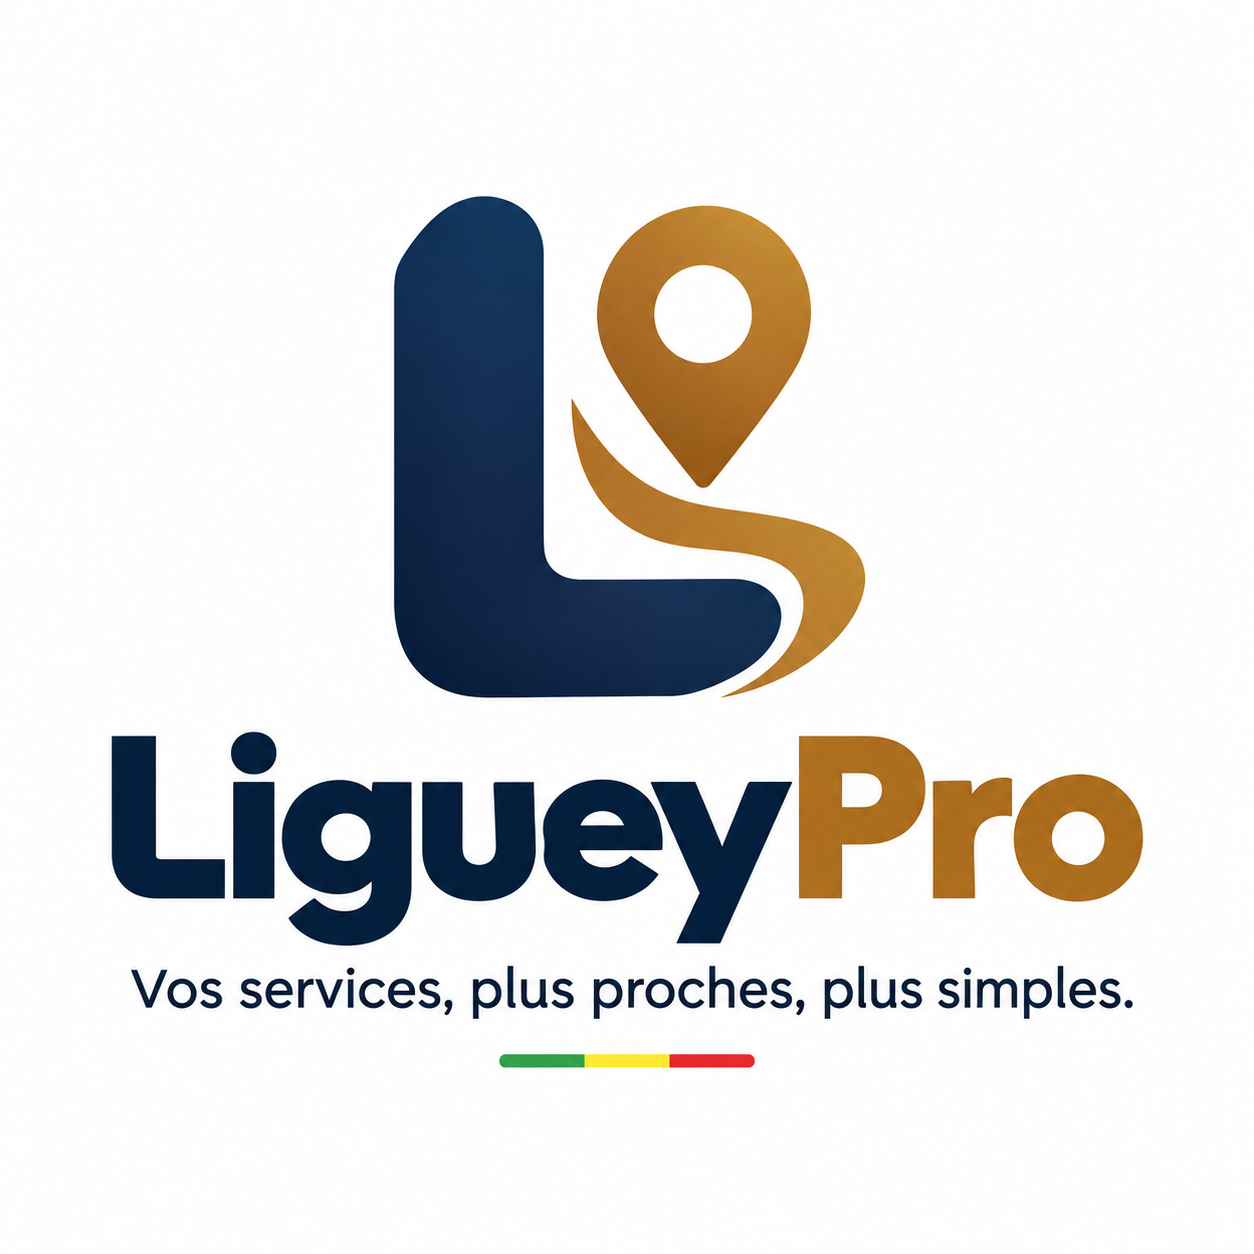
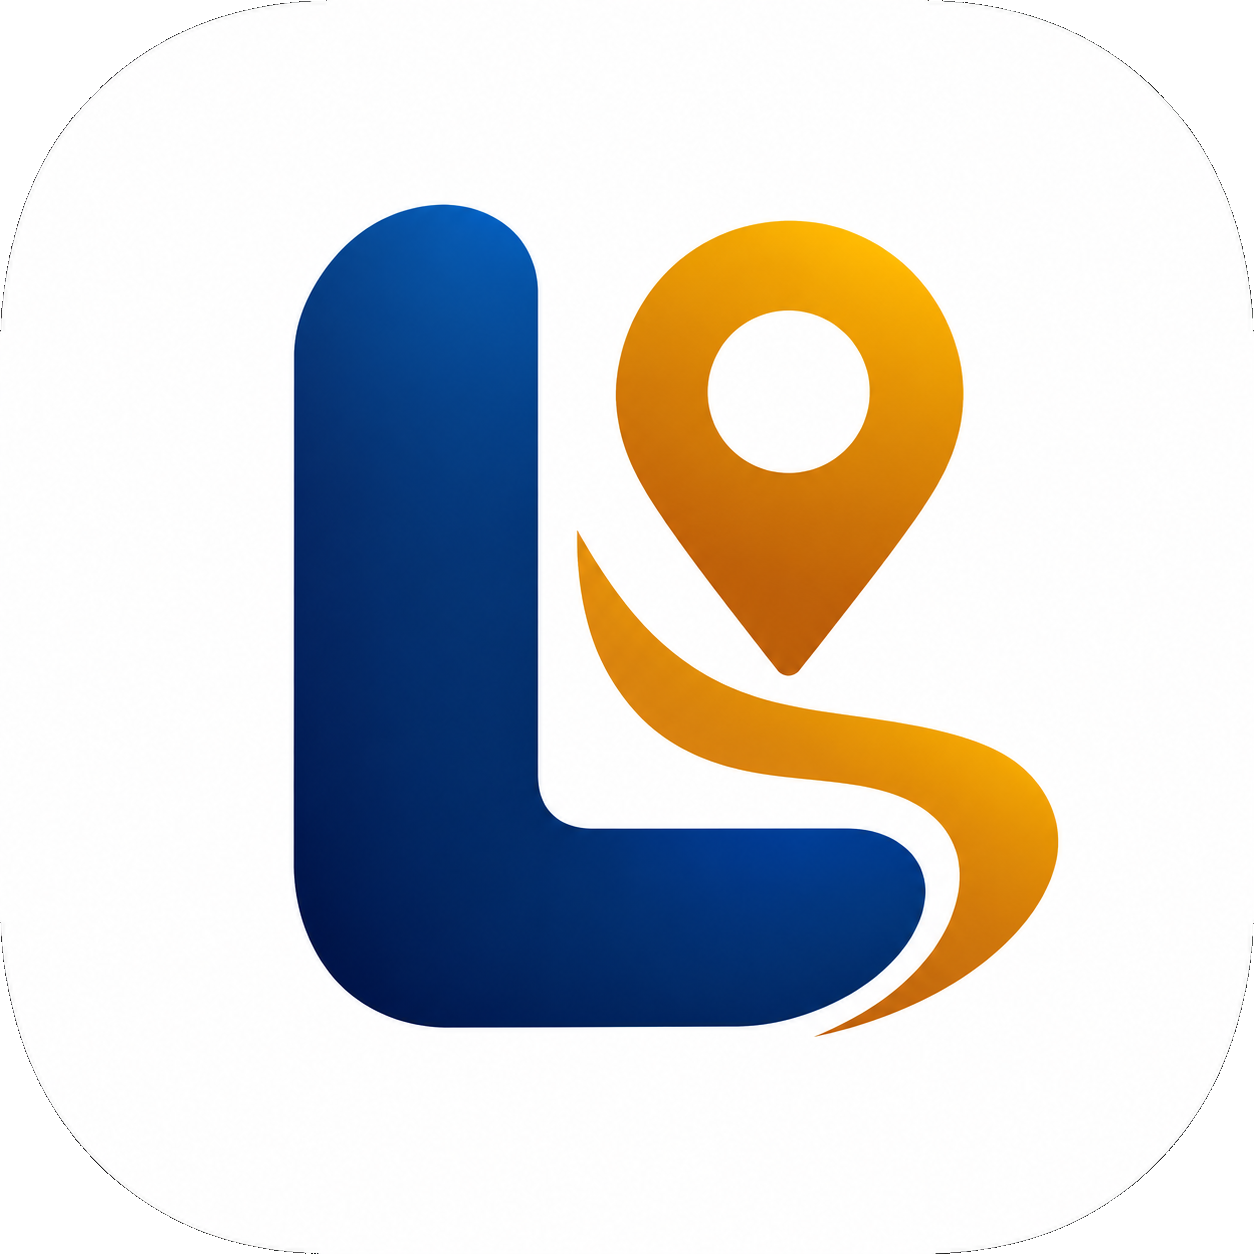
:sparkles: Changement de l'icone de l'application

diff --git a/lib/main.dart b/lib/main.dart
@@ -79,94 +79,118 @@ class _LaunchSplash extends StatelessWidget {
             ),
           ),
           child: SafeArea(
-            child: Center(
-              child: Column(
-                mainAxisSize: MainAxisSize.min,
-                children: [
-                  // =====================================================
-                  // LOGO : STATIQUE
-                  // =====================================================
-                  Container(
-                    width: 330,
-                    padding: const EdgeInsets.all(16),
-                    decoration: BoxDecoration(
-                      color: Colors.white,
-                      borderRadius: BorderRadius.circular(28),
-                      boxShadow: [
-                        BoxShadow(
-                          color: gold.withValues(alpha: 0.20),
-                          blurRadius: 45,
-                          spreadRadius: 2,
-                          offset: const Offset(0, 18),
+            child: Stack(
+              children: [
+                Center(
+                  child: Column(
+                    mainAxisSize: MainAxisSize.min,
+                    children: [
+                      // =====================================================
+                      // LOGO : STATIQUE
+                      // =====================================================
+                      Container(
+                        width: 330,
+                        padding: const EdgeInsets.all(16),
+                        decoration: BoxDecoration(
+                          color: Colors.white,
+                          borderRadius: BorderRadius.circular(28),
+                          boxShadow: [
+                            BoxShadow(
+                              color: gold.withValues(alpha: 0.20),
+                              blurRadius: 45,
+                              spreadRadius: 2,
+                              offset: const Offset(0, 18),
+                            ),
+                            BoxShadow(
+                              color: Colors.black.withValues(alpha: 0.22),
+                              blurRadius: 30,
+                              offset: const Offset(0, 12),
+                            ),
+                          ],
                         ),
-                        BoxShadow(
-                          color: Colors.black.withValues(alpha: 0.22),
-                          blurRadius: 30,
-                          offset: const Offset(0, 12),
+                        child: ClipRRect(
+                          borderRadius: BorderRadius.circular(18),
+                          child: Image.asset(
+                            'assets/ligueyPro2.0_.png',
+                            fit: BoxFit.contain,
+                          ),
                         ),
-                      ],
-                    ),
-                    child: ClipRRect(
-                      borderRadius: BorderRadius.circular(18),
-                      child: Image.asset(
-                        'assets/ligueyPro2.0.png',
-                        fit: BoxFit.contain,
+                      ),
+
+                      const SizedBox(height: 42),
+
+                      // =====================================================
+                      // LIGNE DÉCORATIVE : STATIQUE
+                      // =====================================================
+                      Container(
+                        width: 90,
+                        height: 3,
+                        decoration: BoxDecoration(
+                          borderRadius: BorderRadius.circular(10),
+                          gradient: const LinearGradient(
+                            colors: [
+                              Colors.transparent,
+                              gold,
+                              Colors.transparent,
+                            ],
+                          ),
+                        ),
+                      ),
+
+                      const SizedBox(height: 18),
+
+                      const Text(
+                        'VOS SERVICES,',
+                        style: TextStyle(
+                          color: Colors.white,
+                          fontSize: 12,
+                          fontWeight: FontWeight.w700,
+                          letterSpacing: 2.4,
+                        ),
+                      ),
+
+                      const SizedBox(height: 5),
+
+                      const Text(
+                        'PLUS PROCHES · PLUS SIMPLES',
+                        style: TextStyle(
+                          color: Color(0xFFD8B57A),
+                          fontSize: 11,
+                          fontWeight: FontWeight.w500,
+                          letterSpacing: 1.4,
+                        ),
+                      ),
+
+                      const SizedBox(height: 38),
+
+                      // =====================================================
+                      // SEULE ANIMATION : BARRE DE CHARGEMENT
+                      // =====================================================
+                      const _GoldProgressBar(),
+                    ],
+                  ),
+                ),
+
+                // =====================================================
+                // MENTION DE COPYRIGHT : STATIQUE, EN BAS DE L'ÉCRAN
+                // =====================================================
+                Positioned(
+                  left: 0,
+                  right: 0,
+                  bottom: 24,
+                  child: Center(
+                    child: Text(
+                      '© 2026 LigueyPro 2.0. Tous droits réservés.',
+                      style: TextStyle(
+                        color: Colors.white.withValues(alpha: 0.45),
+                        fontSize: 11,
+                        fontWeight: FontWeight.w500,
+                        letterSpacing: 1.0,
                       ),
                     ),
                   ),
-
-                  const SizedBox(height: 42),
-
-                  // =====================================================
-                  // LIGNE DÉCORATIVE : STATIQUE
-                  // =====================================================
-                  Container(
-                    width: 90,
-                    height: 3,
-                    decoration: BoxDecoration(
-                      borderRadius: BorderRadius.circular(10),
-                      gradient: const LinearGradient(
-                        colors: [
-                          Colors.transparent,
-                          gold,
-                          Colors.transparent,
-                        ],
-                      ),
-                    ),
-                  ),
-
-                  const SizedBox(height: 18),
-
-                  const Text(
-                    'VOS SERVICES,',
-                    style: TextStyle(
-                      color: Colors.white,
-                      fontSize: 12,
-                      fontWeight: FontWeight.w700,
-                      letterSpacing: 2.4,
-                    ),
-                  ),
-
-                  const SizedBox(height: 5),
-
-                  const Text(
-                    'PLUS PROCHES · PLUS SIMPLES',
-                    style: TextStyle(
-                      color: Color(0xFFD8B57A),
-                      fontSize: 11,
-                      fontWeight: FontWeight.w500,
-                      letterSpacing: 1.4,
-                    ),
-                  ),
-
-                  const SizedBox(height: 38),
-
-                  // =====================================================
-                  // SEULE ANIMATION : BARRE DE CHARGEMENT
-                  // =====================================================
-                  const _GoldProgressBar(),
-                ],
-              ),
+                ),
+              ],
             ),
           ),
         ),

diff --git a/lib/features/professionals/presentation/pro_leads_admin_page.dart b/lib/features/professionals/presentation/pro_leads_admin_page.dart
@@ -617,7 +617,7 @@ class _ProLeadsAdminPageState extends State<ProLeadsAdminPage> {
                 child: ClipRRect(
                   borderRadius: BorderRadius.circular(22),
                   child: Image.asset(
-                    'assets/ligueyPro2.0.png',
+                    'assets/ligueyPro2.0_.png',
                     fit: BoxFit.cover,
                   ),
                 ),
